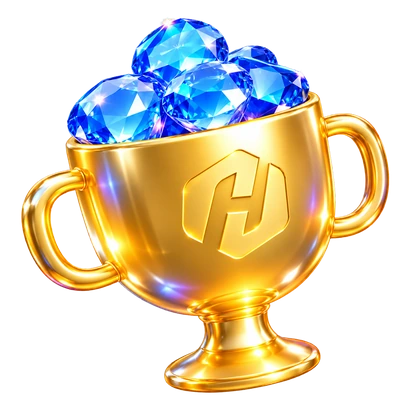
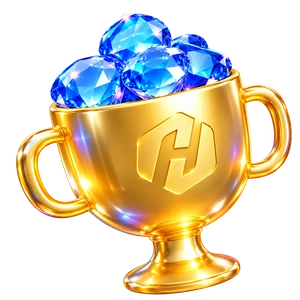
Tour: preload each step's images before it opens; right-size tour images

diff --git a/shared/tour.js b/shared/tour.js
@@ -96,6 +96,34 @@ const ART = {
     </div>`,
 };
 
+// Every image a step shows. They are loaded before the step opens, so the pop-up and its artwork appear
+// together and timed effects always play in order (never a later part before an earlier one that was still loading).
+function assetsFor(step) {
+  const tour = (name) => `../assets/tour/${name}.webp`;
+  const urls = [tour('finger')];
+  if (CAROUSELS[step.art]) CAROUSELS[step.art].holds.forEach((_, index) => urls.push(tour(`${step.art}-${index + 1}`)));
+  if (step.art === 'step-2') urls.push(tour('step-2-candles'), tour('step-2-coin'));
+  if (step.list) step.list.forEach((icon) => urls.push(tour(`step-${step.id}-${icon}`)));
+  if (step.sparkles) urls.push(tour('sparkle'));
+  if (step.effect === 'gifts') urls.push(tour('gift'));
+  if (step.effect === 'coins') urls.push('../assets/images/coin.png');
+  return urls;
+}
+const loaded = new Map(); // url -> promise that settles once the image has loaded (or failed)
+function preload(urls) {
+  return Promise.all(urls.map((url) => {
+    if (!loaded.has(url)) {
+      const image = new Image();
+      // Wait for the load event (decode() can stall for images that are not in the page); keep a reference so the
+      // image stays in memory and paints at once when the step opens.
+      loaded.set(url, new Promise((done) => { image.onload = () => done(image); image.onerror = () => done(null); }));
+      image.src = url;
+    }
+    return loaded.get(url);
+  }));
+}
+const PRELOAD_LIMIT_MS = 2500; // never hold a step back longer than this on a slow connection
+
 const seen = () => { try { return localStorage.getItem(SEEN_KEY) === '1'; } catch (e) { return false; } };
 const markSeen = () => { try { localStorage.setItem(SEEN_KEY, '1'); } catch (e) { /* storage unavailable */ } };
 
@@ -139,7 +167,7 @@ export function mountTour(ui, common, page) {
   function go(step) {
     if (step.page !== page) { location.assign(urlFor(step)); return; }
     history.replaceState(null, '', urlFor(step));
-    show(step);
+    open(step);
   }
 
   function end({ home }) {
@@ -190,6 +218,20 @@ export function mountTour(ui, common, page) {
     node.innerHTML = items.join('');
     layer.appendChild(node);
     setTimeout(() => node.remove(), lifetime);
+  }
+
+  // Open a step once its images are ready, then warm up the next step's images (also when it is on another page:
+  // they are then served from the browser's cache).
+  let opening = 0;
+  function open(step) {
+    const ticket = ++opening;
+    document.documentElement.classList.add('tour-open'); // block the page while the images load
+    Promise.race([preload(assetsFor(step)), new Promise((done) => setTimeout(done, PRELOAD_LIMIT_MS))]).then(() => {
+      if (ticket !== opening) return;
+      show(step);
+      const next = steps[steps.indexOf(step) + 1];
+      if (next) preload(assetsFor(next));
+    });
   }
 
   function show(step) {
@@ -314,7 +356,7 @@ export function mountTour(ui, common, page) {
   // Resume the step named in the URL, or open the tour on the first visit to Home. `?tour=off` never opens it.
   const wanted = params.get('tour');
   const resumed = steps.find((step) => String(step.id) === wanted && step.page === page);
-  if (resumed) show(resumed);
+  if (resumed) open(resumed);
   else if (wanted !== 'off' && !wanted && page === 'dashboard' && (!seen() || common.tour.firstVisit)) start();
 
   return { start };

diff --git a/shared/components.css b/shared/components.css
@@ -256,6 +256,9 @@
 
 /* ---- Guided tour: a blocking layer with a highlighted area and one pop-up card ---- */
 .tour-open { overflow: hidden; }
+/* While a step's images load, before its layer exists, the page is already blocked. */
+.tour-open body { pointer-events: none; }
+.tour-open .tour { pointer-events: auto; }
 .tour { position: fixed; inset: 0; z-index: 70; }
 /* The highlight is a hole in the scrim: a box whose huge shadow darkens everything around it. */
 .tour__spot { position: fixed; box-shadow: 0 0 0 200vmax var(--ui-overlay-scrim); pointer-events: none; }

diff --git a/tools/build-tour-animation.py b/tools/build-tour-animation.py
@@ -4,7 +4,7 @@
 The pages animate still images in code (shared/tour.js, `carousel`), which stays sharp on every screen and is far
 lighter than a video. This script exports those stills:
 
-    python3 tools/build-tour-animation.py            -> assets/tour/<name>-<n>.webp, one per item, 400px
+    python3 tools/build-tour-animation.py            -> assets/tour/<name>-<n>.webp, one per item, at 3x its display size
 
 It can also render the same motion as a video with a transparent background, for use outside the pages:
 
@@ -30,7 +30,6 @@ ROOT = Path(__file__).resolve().parent.parent
 SOURCE = ROOT / 'Design Elements' / 'Tutorial' / 'Animation'
 OUT = ROOT / 'assets' / 'tour'
 VIDEO_OUT = ROOT / 'dist' / 'tour-animation'
-STILL_SIZE = 400                # px: about 3x the largest size an item is shown at (up to 130px)
 # name -> source folder, items in order of appearance at the front, seconds each one rests there.
 ANIMATIONS = {
     'step-1': {
@@ -42,11 +41,13 @@ ANIMATIONS = {
             'Golden Trophy Overflowing with Blue Gems (1) 2.png',  # cup
         ],
         'holds': [2.0, 4.0, 4.0, 4.0],
+        'still': 300,   # px: 3x the size the front item is shown at (96px)
     },
     'step-4': {
         'folder': 'Step 4',
         'items': ['Frame 29.png', 'Frame 30.png', 'Frame 31.png', 'Frame 32.png', 'Frame 33.png'],  # phone, earbuds, laptop, travel, foldable
         'holds': [2.5, 2.5, 2.5, 2.5, 2.5],
+        'still': 400,   # px: 3x the size the front item is shown at (130px)
     },
 }
 WIDTH, HEIGHT = 720, 480        # 3x a 240x160 display size
@@ -79,7 +80,7 @@ def export_stills(name, spec):
     for number, item in enumerate(spec['items'], start=1):
         image = Image.open(SOURCE / spec['folder'] / item).convert('RGBA')
         target = OUT / f'{name}-{number}.webp'
-        image.resize((STILL_SIZE, STILL_SIZE), Image.LANCZOS).save(target, 'WEBP', quality=92, method=6)
+        image.resize((spec['still'], spec['still']), Image.LANCZOS).save(target, 'WEBP', quality=88, method=6)
         print(f'{target.name}: {target.stat().st_size // 1024} KB')
 
 

diff --git a/spec.md b/spec.md
@@ -452,6 +452,7 @@ Copy revised on 7 Oct 2026 (final wording from the content review). The "How it 
 - **Step 1 sparkles:** before the finger arrives, fourteen gold sparkles (`assets/tour/sparkle.webp`), large and small (6–17px), pop at random spots around the `Start tour` button (four of them always above it) in random order, from 2 s to about 4.1 s; the finger sits above them; the finger comes in together with the first sparkles, at 2 s. Step 1 only; none with reduced motion.
 - **Finger hint:** on every step a finger appears just under the main (blue) button, pointing up at it, then taps gently: after 2 s on step 1 (together with the sparkles) after 7 s on step 2 (it has the rules to read), and after 4 s on the other steps. It grows in softly from its fingertip over 0.8 s, the way the sparkles pop in. It never blocks taps. Artwork (final, 7 Oct 2026): the skin-tone 3D hand, `assets/tour/finger.webp`; the blue glass and peach glass options were dropped.
 - **Step 5 icons:** each of the three lines sits in its own small borderless card and starts with a small coin icon from `Design Elements/Tutorial/Animation/Step 5` (16px): a blue coin for Available, a silver coin for Expired, a blue coin with plus and minus marks for History.
+- **Loading:** a step opens only after all of its images are loaded (2.5 s limit on a slow connection), so the pop-up and its artwork appear together and timed effects always play in order. While a step is on screen, the next step's images are loaded in the background. Tour images are exported at 3x their display size; all of them together weigh about 250 KB.
 - **When it opens:** by itself the first time Home is opened on a device (remembered on the device), and whenever the user taps the help button (round `?`) at the right of the Home header.
 - **Blocking:** while the tour runs nothing but the pop-up can be tapped; the page does not scroll; the bottom bar is covered. The highlighted part is visible but not tappable (so `Redeem` cannot be pressed in step 4).
 - The step counter (`2 of 5`) shows from step 2 on; the welcome step has none.
